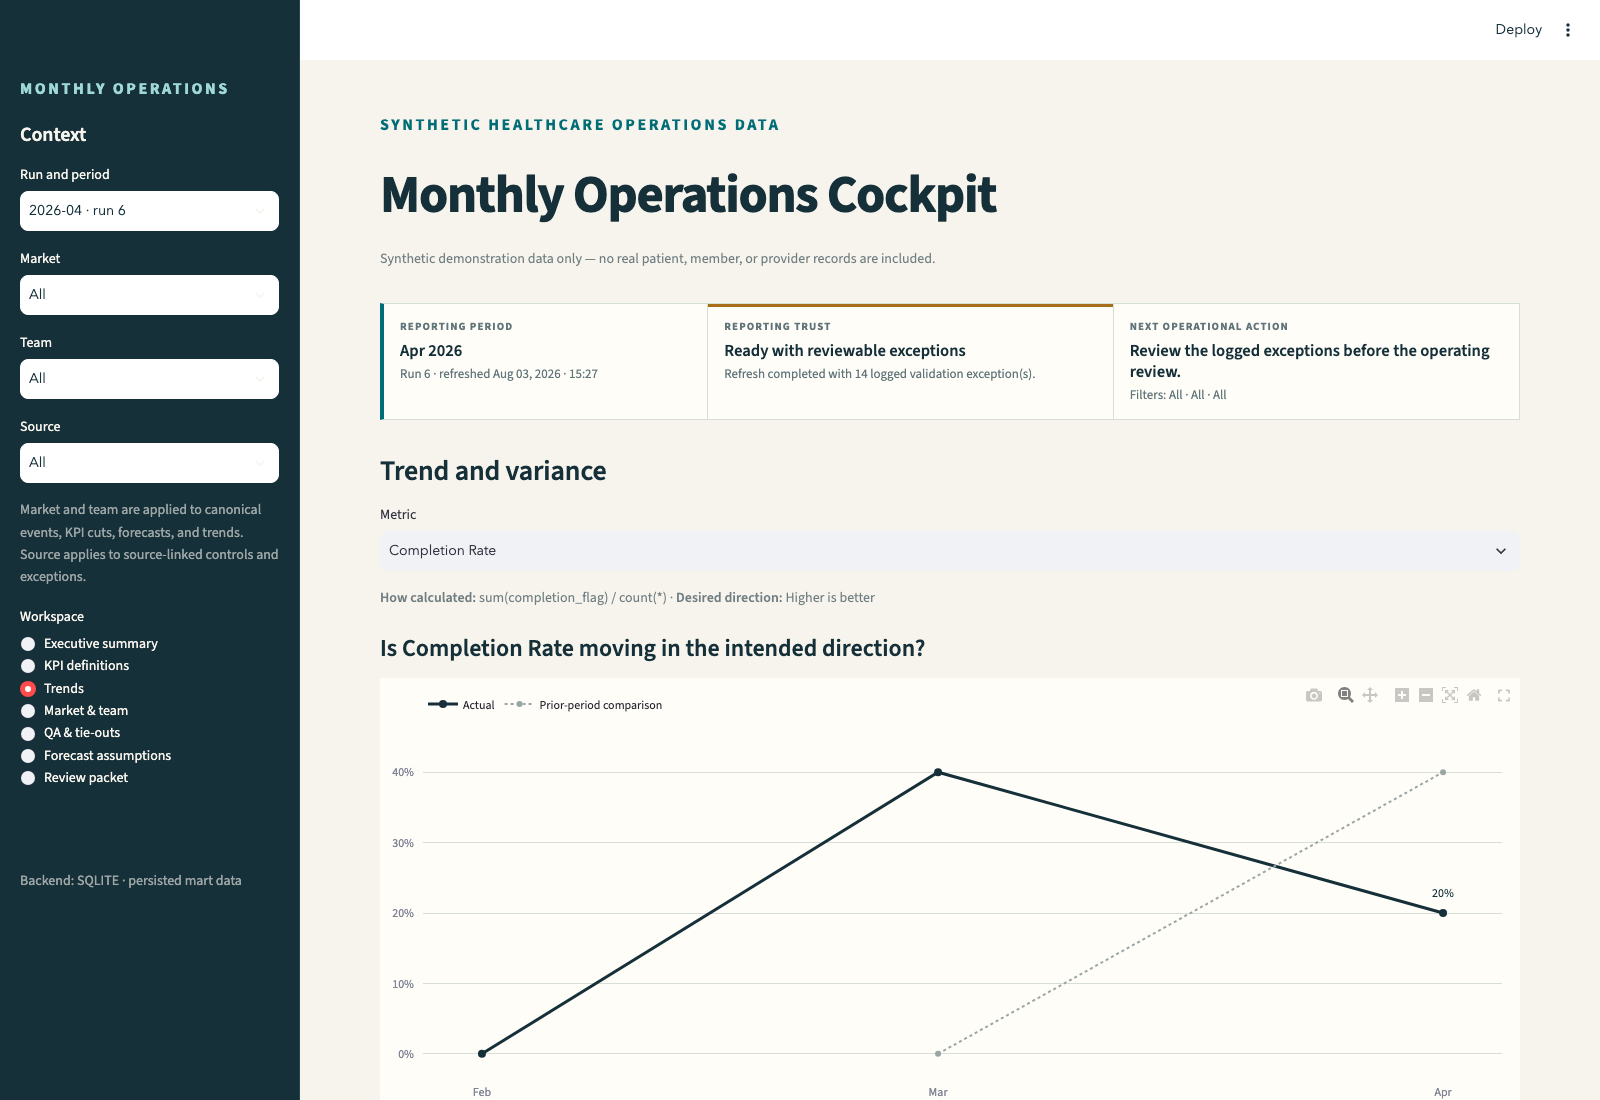
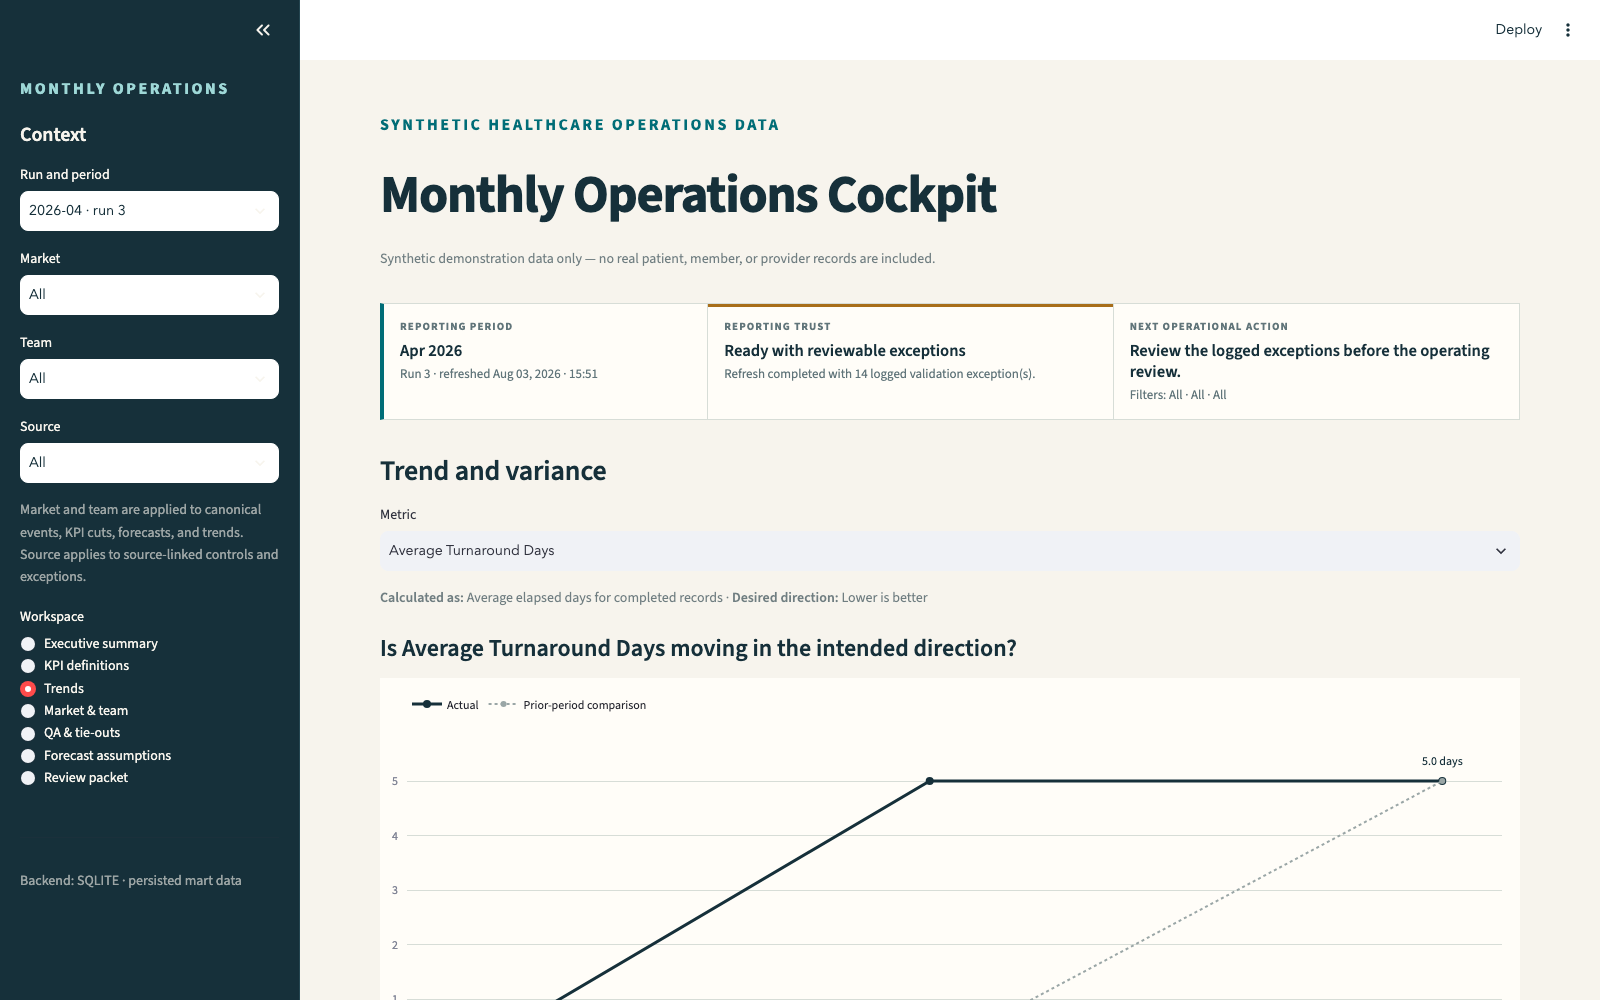
fix: polish cockpit presentation

diff --git a/src/healthcare_ops_kpi_qa/dashboard.py b/src/healthcare_ops_kpi_qa/dashboard.py
@@ -38,6 +38,17 @@ FAVORABLE_COLOR = "#16735c"
 NEUTRAL_COLOR = "#5d6d71"
 INK_COLOR = "#16303a"
 TEAL_COLOR = "#006d77"
+KPI_CALCULATION_SUMMARIES = {
+    "Total Records Received": "Count of received records",
+    "Completed Records": "Count of records completed during the period",
+    "Completion Rate": "Completed records as a share of received records",
+    "Average Turnaround Days": "Average elapsed days for completed records",
+    "Open Backlog Count": "Count of records remaining open at period end",
+    "Backlog Over SLA Count": "Count of open records beyond the service-level target",
+    "QA Issue Rate": "Records with a logged QA issue as a share of received records",
+    "Required Field Completeness Rate": "Records with all required fields as a share of received records",
+    "Unique NPI Rate": "Records with a unique provider NPI as a share of received records",
+}
 
 
 @dataclass(frozen=True)
@@ -71,6 +82,16 @@ def format_timestamp(value: object) -> str:
         return "Not recorded"
     timestamp = pd.to_datetime(value)
     return timestamp.strftime("%b %d, %Y · %H:%M")
+
+
+def forecast_display_period_date(value: object) -> pd.Timestamp:
+    """Position month-end forecast records alongside month-grained actual history."""
+    return pd.to_datetime(value).to_period("M").to_timestamp()
+
+
+def calculation_summary(kpi_name: str) -> str:
+    """Return a plain-language display definition without changing configured logic."""
+    return KPI_CALCULATION_SUMMARIES.get(kpi_name, "Definition available in the KPI catalog")
 
 
 def variance_state(variance_value: object, target_direction: str) -> str:
@@ -661,7 +682,7 @@ def render_trends(trend_data: pd.DataFrame, source_file_type: str) -> None:
     definition = kpi_definition_frame().set_index("kpi_name").loc[selected_metric]
     display_format = str(definition["display_format"])
     st.caption(
-        f"**How calculated:** {definition['how_calculated']} · "
+        f"**Calculated as:** {calculation_summary(selected_metric)} · "
         f"**Desired direction:** {'Higher is better' if definition['target_direction'] == 'higher_is_better' else 'Lower is better'}"
     )
     st.markdown(f"#### Is {selected_metric} moving in the intended direction?")
@@ -905,6 +926,25 @@ def _yes_no(value: object) -> str:
     return "Yes" if bool(value) else "No"
 
 
+def review_packet_metadata_frame(run_row: pd.Series) -> pd.DataFrame:
+    """Present selected-run evidence with operational labels, not persistence fields."""
+    refresh_status = str(run_row["run_status"])
+    status_label = "Successful" if refresh_status == "success" else _humanize_label(refresh_status)
+    return pd.DataFrame(
+        [
+            {"Item": "Run", "Details": f"Run {int(run_row['run_id']):,}"},
+            {"Item": "Reporting period", "Details": format_reporting_period(str(run_row['reporting_period']))},
+            {"Item": "Refresh status", "Details": status_label},
+            {"Item": "Refresh completed", "Details": format_timestamp(run_row["run_finished_at"])},
+            {"Item": "Source files", "Details": f"{int(run_row['source_file_count']):,} file(s)"},
+            {
+                "Item": "Logged validation exceptions",
+                "Details": f"{int(run_row['validation_issue_count']):,} exception(s)",
+            },
+        ]
+    ).astype({"Details": "string"})
+
+
 def render_forecast_assumptions(
     forecasts: pd.DataFrame,
     trend_data: pd.DataFrame,
@@ -915,7 +955,7 @@ def render_forecast_assumptions(
         st.info("Forecast rows are not source-grained in V1, so the source filter does not change this view.")
     st.markdown(
         """
-        - **Method:** rolling three-period average (`rolling_avg_3`).
+        - **Method:** rolling three-period average.
         - **Coverage:** stable volume and backlog metrics only.
         - **Bounds:** the minimum and maximum observed values in the same three-period history.
         - **Limitations:** this is a transparent baseline, not a causal or clinical forecast; QA issue rate is intentionally not forecast in V1.
@@ -973,7 +1013,7 @@ def _build_forecast_figure(
 ) -> go.Figure:
     actuals = history.sort_values("reporting_period").copy()
     actuals["period_date"] = pd.to_datetime(actuals["reporting_period"].astype(str) + "-01")
-    forecast_date = pd.to_datetime(forecast_row["forecast_period_end"])
+    forecast_date = forecast_display_period_date(forecast_row["forecast_period_end"])
     latest_actual = actuals.iloc[-1]
     forecast_value = float(forecast_row["forecast_value"])
     lower_bound = float(forecast_row["lower_bound"])
@@ -1075,16 +1115,7 @@ def render_review_packet(run_row: pd.Series, bundle: dict[str, pd.DataFrame]) ->
                 st.json(json.loads(str(latest["prompt_payload_json"])))
 
     st.markdown("#### Selected-run package")
-    packet_metadata = pd.DataFrame(
-            [
-                {"field": "run_id", "value": int(run_row["run_id"])},
-                {"field": "reporting_period", "value": run_row["reporting_period"]},
-                {"field": "run_status", "value": run_row["run_status"]},
-                {"field": "completed_at", "value": run_row["run_finished_at"]},
-                {"field": "source_files", "value": int(run_row["source_file_count"])},
-                {"field": "validation_issues", "value": int(run_row["validation_issue_count"])},
-            ]
-        ).astype({"value": "string"})
+    packet_metadata = review_packet_metadata_frame(run_row)
     st.dataframe(
         packet_metadata,
         width="stretch",

diff --git a/tests/test_dashboard_cockpit.py b/tests/test_dashboard_cockpit.py
@@ -3,12 +3,15 @@ import pandas as pd
 from healthcare_ops_kpi_qa.dashboard import (
     ALL_FILTER,
     build_tie_out_frame,
+    calculation_summary,
     classify_run_trust,
     commentary_display_text,
     filter_events,
     filter_source_linked_rows,
+    forecast_display_period_date,
     format_variance,
     kpi_definition_frame,
+    review_packet_metadata_frame,
     select_cut_rows,
     selected_run_is_consistent,
     snapshot_display_frame,
@@ -124,6 +127,43 @@ def test_variance_presentation_uses_configured_direction_and_people_formats() ->
     assert display["Change"] == "+1"
     assert display["Interpretation"].startswith("Needs attention")
     assert commentary_display_text("Top issue was `invalid_npi_checksum`.") == "Top issue was Invalid NPI Checksum."
+
+
+def test_review_packet_metadata_uses_operational_labels_and_formats() -> None:
+    metadata = review_packet_metadata_frame(
+        pd.Series(
+            {
+                "run_id": 6,
+                "reporting_period": "2026-04",
+                "run_status": "success",
+                "run_finished_at": "2026-08-03T15:27:00",
+                "source_file_count": 3,
+                "validation_issue_count": 14,
+            }
+        )
+    )
+
+    assert metadata.columns.tolist() == ["Item", "Details"]
+    assert metadata.to_dict("records") == [
+        {"Item": "Run", "Details": "Run 6"},
+        {"Item": "Reporting period", "Details": "Apr 2026"},
+        {"Item": "Refresh status", "Details": "Successful"},
+        {"Item": "Refresh completed", "Details": "Aug 03, 2026 · 15:27"},
+        {"Item": "Source files", "Details": "3 file(s)"},
+        {"Item": "Logged validation exceptions", "Details": "14 exception(s)"},
+    ]
+
+
+def test_forecast_display_period_aligns_with_month_grained_actuals() -> None:
+    assert forecast_display_period_date("2026-05-31") == pd.Timestamp("2026-05-01")
+
+
+def test_calculation_summary_hides_config_field_names_on_operational_surfaces() -> None:
+    summary = calculation_summary("Average Turnaround Days")
+
+    assert summary == "Average elapsed days for completed records"
+    assert "turnaround_days" not in summary
+    assert "completion_flag" not in summary
 
 
 def test_tie_out_frame_connects_source_run_mart_and_workbook_counts() -> None:

diff --git a/docs/DEMO_ASSETS.md b/docs/DEMO_ASSETS.md
@@ -5,7 +5,7 @@
 - Dashboard overview: `docs/demo_assets/dashboard_overview.png` — April reporting context, `Ready with reviewable exceptions` trust state, direction-aware headline KPIs, and next action.
 - Dashboard trend: `docs/demo_assets/dashboard_trend.png` — formatted actual and prior-period comparison for a selected KPI.
 - Dashboard QA: `docs/demo_assets/dashboard_qa.png` — source-to-workbook control ledger with counts, statuses, drilldowns, and human-readable exception categories.
-- Dashboard forecast: `docs/demo_assets/dashboard_forecast.png` — actual history, distinct next-period forecast point, observed range, assumptions, and limits.
+- Dashboard forecast: `docs/demo_assets/dashboard_forecast.png` — actual history, distinct next-period forecast point, observed range, and displayed rolling-average method.
 - Dashboard commentary: `docs/demo_assets/dashboard_commentary.png` — readable deterministic commentary beside clearly labeled optional draft and human-review requirement.
 
 ## Versioned output evidence
